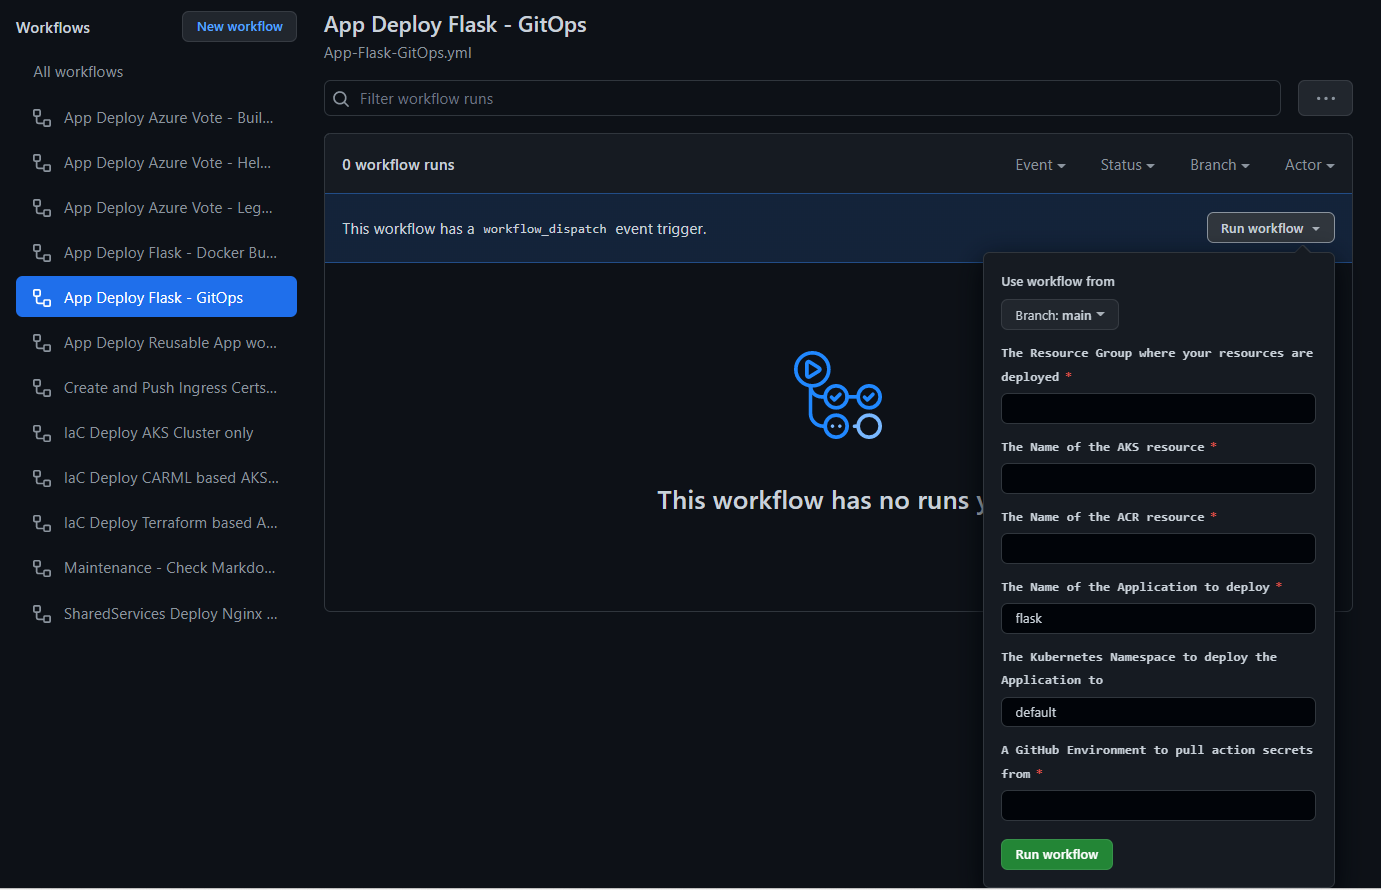
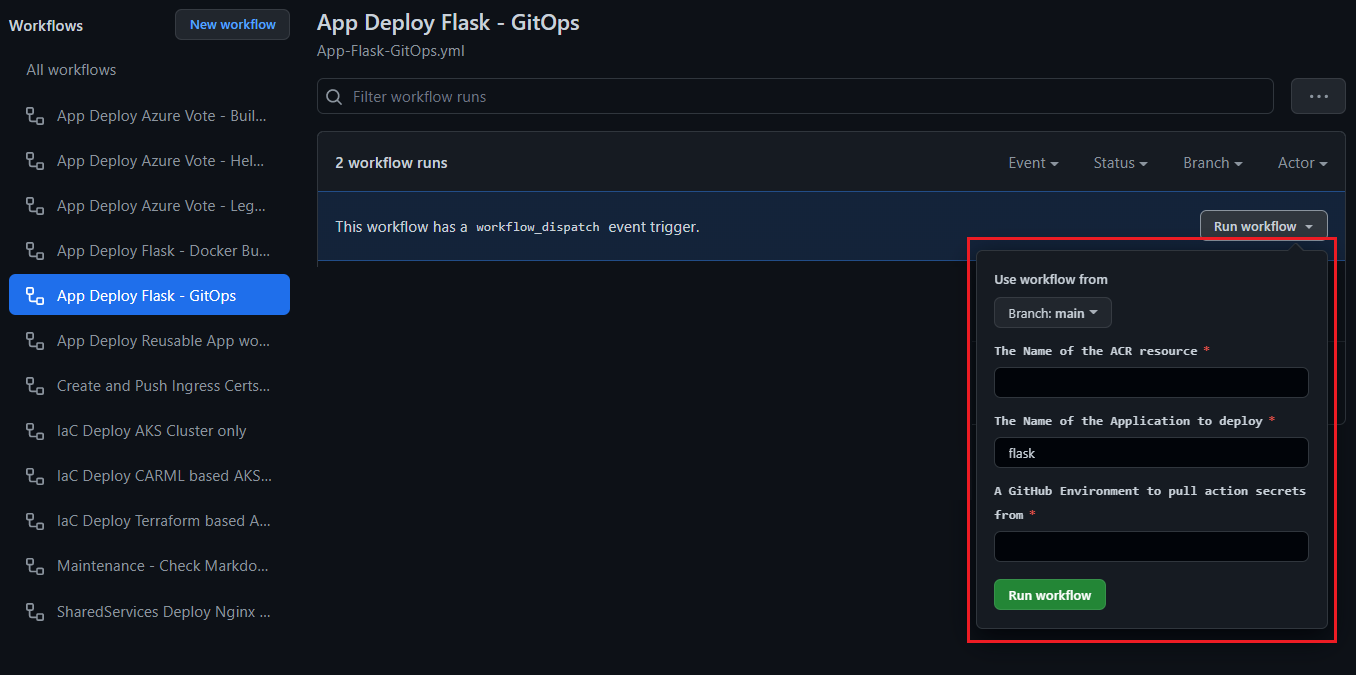
Added the creation of the namespace if it does not already exist

diff --git a/workloads/docs/app-flask-pull-gitops.md b/workloads/docs/app-flask-pull-gitops.md
@@ -5,7 +5,9 @@ This article outlines how to deploy your workload using the pull option as descr
 1. Follow steps 1 to 5 in [Option #1 Push-based CI/CD](./app-flask-push-dockerbuild.md) to setup your GitHub environment.
 2. Install Argo CD on your AKS cluster by following the steps in [Get Started with Argo CD](https://argo-cd.readthedocs.io/en/stable/getting_started/).
    
-3. Run the [.github/workflows/App-Flask-GitOps.yml](../../.github/workflows/App-Flask-GitOps.yml) workflow by clicking on **Actions** and selecting the display name for this workflow, which is **App Deploy Flask - GitOps**. This workflow will build and push the container image to the Azure Container Registry (ACR), then it will update the application *deployment.yaml* file with the names of the pushed image.
+3. Run the [.github/workflows/App-Flask-GitOps.yml](../../.github/workflows/App-Flask-GitOps.yml) workflow by clicking on **Actions** and selecting the display name for this workflow, which is **App Deploy Flask - GitOps**. This workflow will build and push the container image to the Azure Container Registry (ACR), then it will update the application *deployment.yaml* file with the names of the pushed image. 
+   
+    Enter the parameters requested by this workflow as shown below:
        ![](media/b4bf25dc9497c669d54a205648cb864c.png)
 4. Create a new app for the App in Argo CD by following [these steps](https://argo-cd.readthedocs.io/en/stable/getting_started/#creating-apps-via-ui). Make sure you enter the following parameters:
    - Application Name: flask
